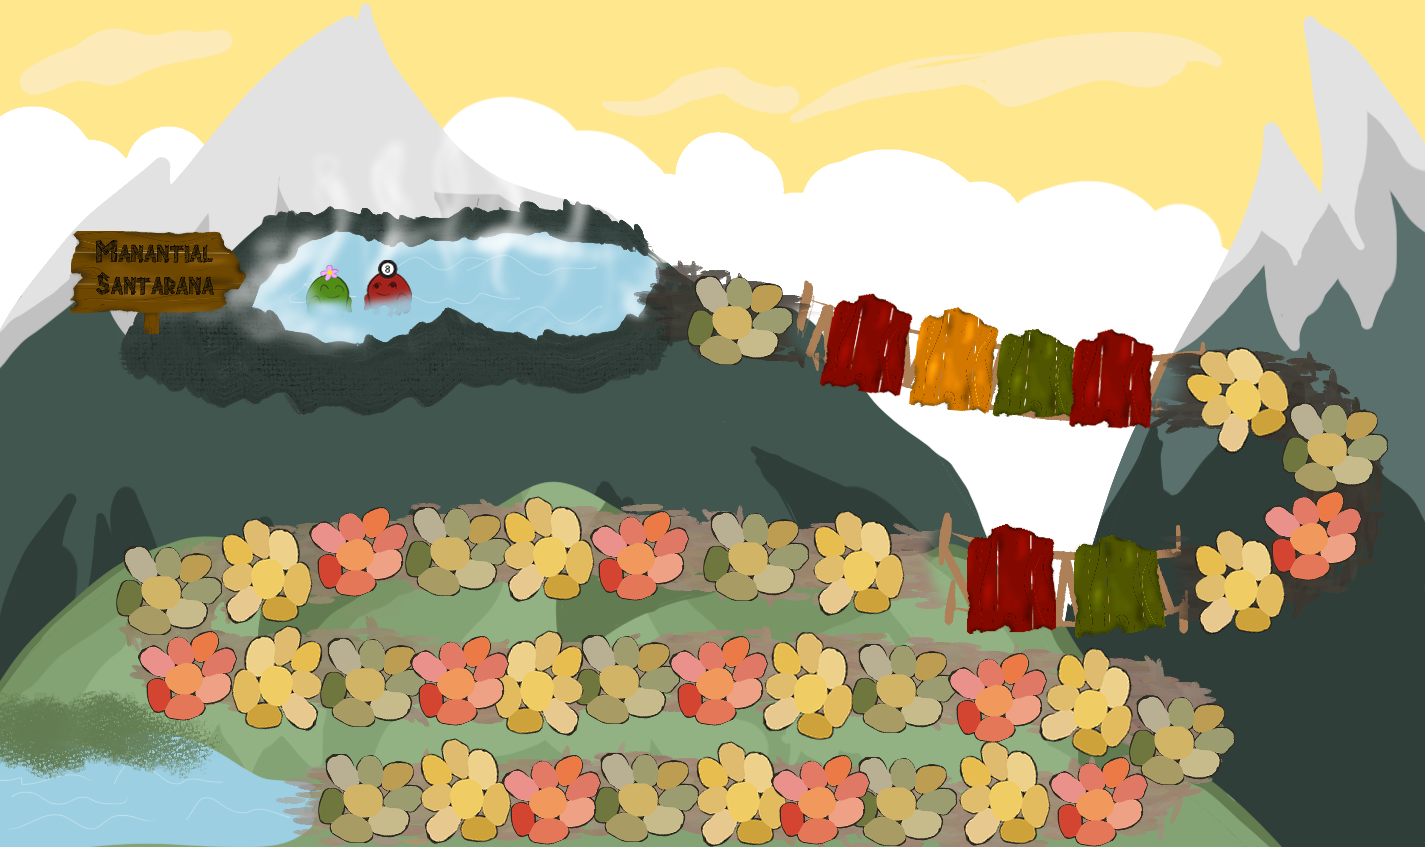
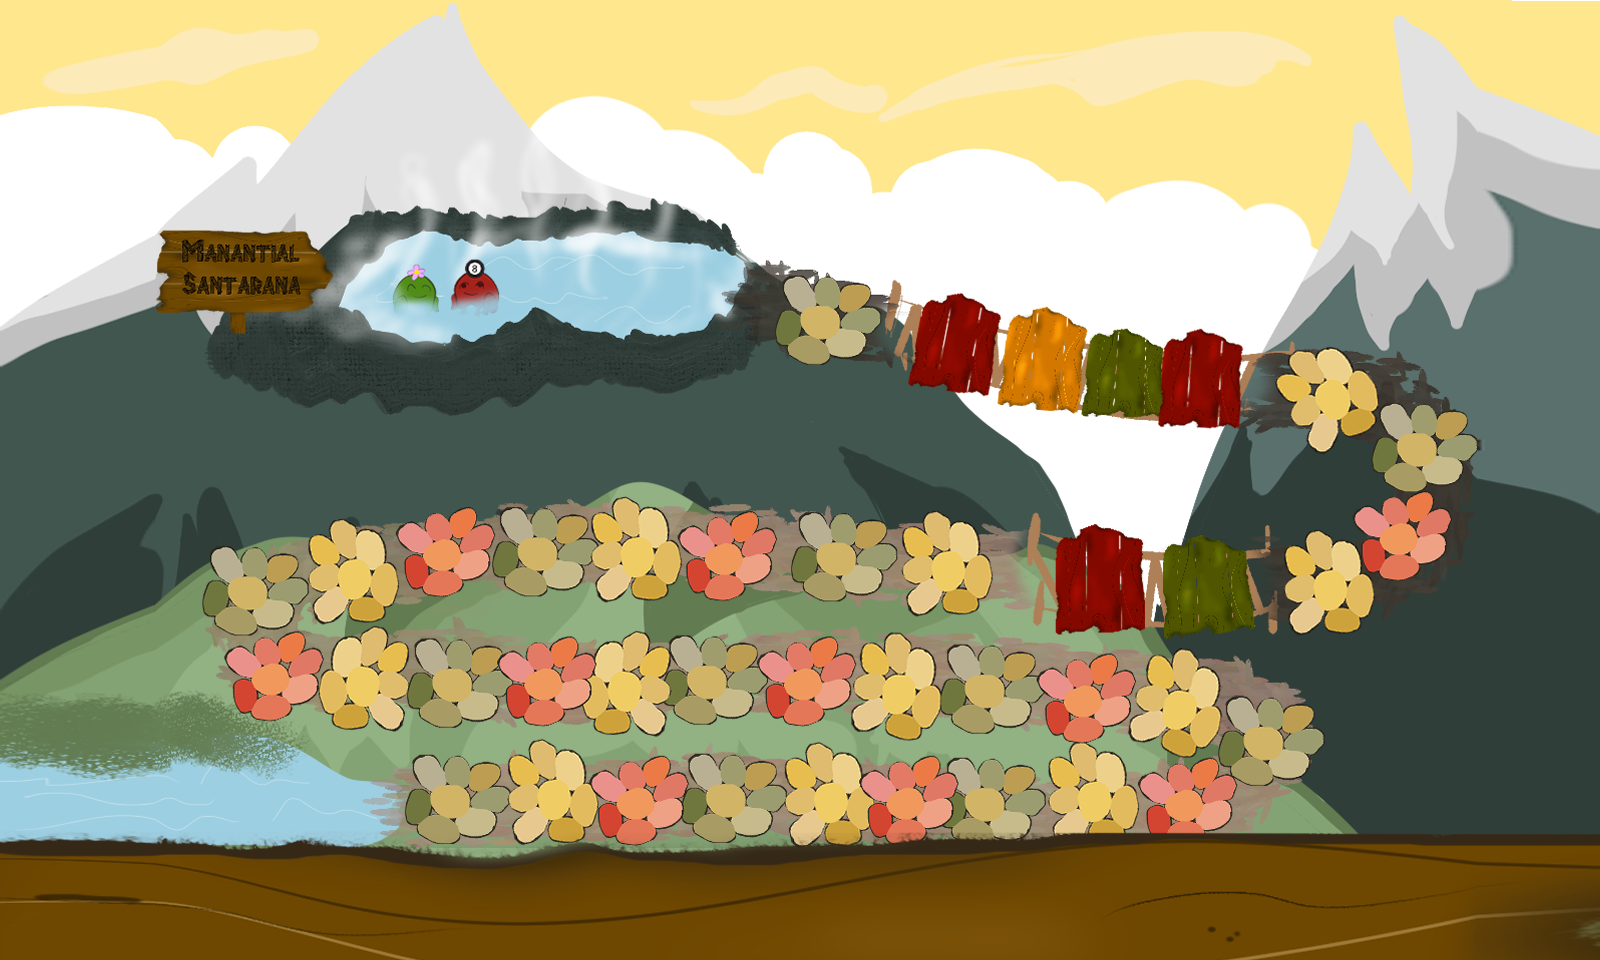
Agregado del nuevo integrante en los creditos y renovación del tablero junto a la disposición de botones

diff --git a/src/scenes/play.js b/src/scenes/play.js
@@ -231,9 +231,9 @@ export class Play extends Phaser.Scene {
       scorejg3 = 0;
       scoreac = 0;
       spawnPoint = tablero.findObject("Botones", (obj) => obj.name == ('Score'));
-      this.add.image(spawnPoint.x, spawnPoint.y, 'ContMoscas').setScale(0.16);
-      scoretext = this.add.text(spawnPoint.x*1.04, spawnPoint.y*0.65, "2", { //Texto Score
-        fontSize: "32px",
+      this.add.image(spawnPoint.x, spawnPoint.y, 'ContMoscas').setScale(0.2);
+      scoretext = this.add.text(spawnPoint.x*1.05, spawnPoint.y*0.60, "2", { //Texto Score
+        fontSize: "36px",
         fill: "#000000",
         fontFamily: 'Arial'
       });
@@ -359,13 +359,13 @@ export class Play extends Phaser.Scene {
 
     //Textos
     JugadorTurno(Turno){
-      this.add.image(this.cameras.main.centerX*1.02, this.cameras.main.centerY-this.cameras.main.centerY/1.15, Turno);
+      this.add.image(this.cameras.main.centerX, this.cameras.main.centerY-this.cameras.main.centerY/1.15, Turno).setScale(1.5);
       if (Turno == 'Jugador 1') {
-        this.add.image(this.cameras.main.centerX*1.10, this.cameras.main.centerY-this.cameras.main.centerY/1.08, "sapo").setScale(0.5);
+        this.add.image(this.cameras.main.centerX*1.11, this.cameras.main.centerY-this.cameras.main.centerY/1.08, "sapo").setScale(0.6);
       } else if (Turno == 'Jugador 2') {
-        this.add.image(this.cameras.main.centerX*1.10, this.cameras.main.centerY-this.cameras.main.centerY/1.08, "sapo2").setScale(0.5);
+        this.add.image(this.cameras.main.centerX*1.11, this.cameras.main.centerY-this.cameras.main.centerY/1.08, "sapo2").setScale(0.6);
       } else if (Turno == 'Jugador 3'){
-        this.add.image(this.cameras.main.centerX*1.10, this.cameras.main.centerY-this.cameras.main.centerY/1.08, "sapo3").setScale(0.5);
+        this.add.image(this.cameras.main.centerX*1.11, this.cameras.main.centerY-this.cameras.main.centerY/1.08, "sapo3").setScale(0.6);
       }
       
     }

diff --git a/src/scenes/creditos.js b/src/scenes/creditos.js
@@ -11,27 +11,27 @@ export class Creditos extends Phaser.Scene {
         // Boton para volver
         this.add.image(this.cameras.main.centerX,
             this.cameras.main.centerY,
-                 'custom_bg').setScale(1);
-        const boton = new Button(this.cameras.main.centerX - this.cameras.main.centerX/1.35,
-            this.cameras.main.centerY + this.cameras.main.centerY/2.5, 'volver', this, () => {
+                 'custom_bg').setScale(1.2);
+        const boton = new Button(this.cameras.main.centerX*0.15,
+            this.cameras.main.centerY, 'volver', this, () => {
             // Instrucción para pasar a la escena Play
             this.scene.switch("MainMenu");
         });
         let juan = this.sound.add('juan');
-        new Button(this.cameras.main.centerX*0.35, //Juan
-             this.cameras.main.centerY*0.7,
+        new Button(this.cameras.main.centerX*0.38, //Juan
+             this.cameras.main.centerY*0.44,
               'juanpp', this, () => {
             juan.play();
         }); 
         let alan = this.sound.add('alan');
-        new Button(this.cameras.main.centerX*0.95, //Alan
-             this.cameras.main.centerY*0.7,
+        new Button(this.cameras.main.centerX*1.53, //Alan
+             this.cameras.main.centerY*1.15,
              'alanpp', this, () => {
             alan.play();
         }); 
         let cabra = this.sound.add('cabra')
-        new Button(this.cameras.main.centerX*1.55, //Cabra
-             this.cameras.main.centerY*0.7,
+        new Button(this.cameras.main.centerX*0.38, //Cabra
+        this.cameras.main.centerY*1.15,
              'cabrapp', this, () => {
             cabra.play();
         }); 

diff --git a/src/scenes/mainmenu.js b/src/scenes/mainmenu.js
@@ -10,7 +10,7 @@ export class MainMenu extends Phaser.Scene {
         // Boton para comenzar a personalizar
         this.add.image(this.cameras.main.centerX,
         this.cameras.main.centerY,
-             'menu_bg').setScale(1);
+             'menu_bg').setScale(1.2);
         new Button(this.cameras.main.centerX - this.cameras.main.centerX/1.7, //Boton Config
              this.cameras.main.centerY + this.cameras.main.centerY/3, 'config', this,
               () => {

diff --git a/src/scenes/opcion.js b/src/scenes/opcion.js
@@ -12,7 +12,7 @@ export class Opcion extends Phaser.Scene {
         // Boton para volver a la escena de Play
         this.add.image(this.cameras.main.centerX,
             this.cameras.main.centerY,
-               'tablero_blur').setScale(0.75);
+               'tablero_blur').setScale(0.9);
         new Button(this.cameras.main.centerX*1.3, //Salir
              this.cameras.main.centerY + this.cameras.main.centerY/2.2,
               'Si', this, () => {

diff --git a/src/scenes/ayuda.js b/src/scenes/ayuda.js
@@ -15,7 +15,7 @@ export class Ayuda extends Phaser.Scene {
     
         this.add.image(this.cameras.main.centerX,
             this.cameras.main.centerY,
-                 'ayuda_bg');
+                 'ayuda_bg').setScale(1.2);
         const boton = new Button(spawnPoint.x, spawnPoint.y,
               'ayuda', this, () => {
             // Instrucción volver a la escena Play

diff --git a/src/js/index.js b/src/js/index.js
@@ -7,8 +7,8 @@ import { Opcion } from "../scenes/opcion.js";
 
 var config = {
   type: Phaser.AUTO,
-  width: 1400,
-  height: 800,
+  width: 1600,
+  height: 960,
   scale: {
     mode: Phaser.Scale.FIT,
     autoCenter: Phaser.Scale.CENTER_BOTH,
